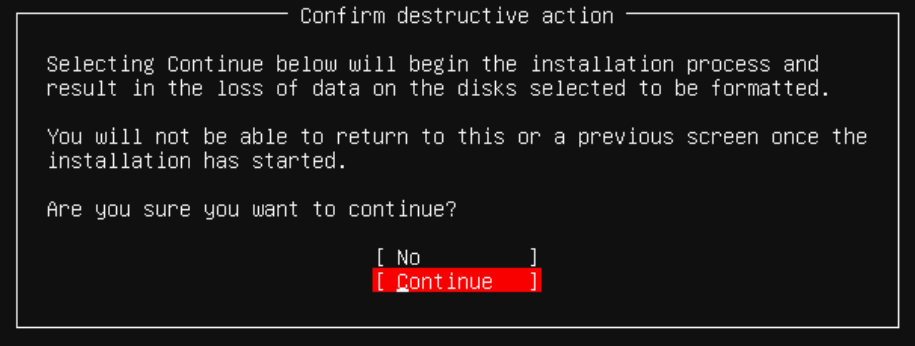
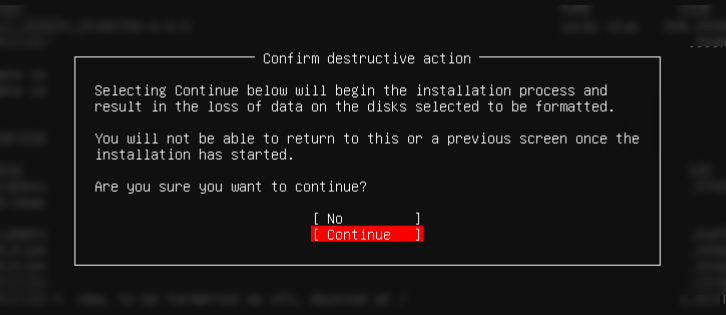
Update

Changed region(s): [[0.0, 0.0, 1.0, 0.9714], [0.0909, 0.6857, 0.9091, 0.8571], [0.9697, 0.1143, 1.0, 0.1714]]

diff --git a/Zeek 5.x on Ubuntu Install.md b/Zeek 5.x on Ubuntu Install.md
@@ -273,21 +273,36 @@ Participants can contact Dell directly for warranty & customer support for hardw
 
 ![image-20200506160918064](/images/image-userprofile.png)
 
-## 3.5 Intall OpenSSH
+## 3.5 Install OpenSSH
 
 >Install OpenSSH server.  This will allow you to administrate the server via SSH.  
 >Optionally, use certificate based authentication.
 >
 ![image-20200506160918064](/images/image-installopenssh.png)
 
+## 3.5 Featured Server Snaps
+
+>Do not select any Featured server Snaps
+>
+![image-20200506160918064](/images/image-featuredserversnaps.png)
+
 
 ## 3.5. Begin the installation
 
-1. Click `Begin Installation`.
+
+1.  Confirm the destructive operation warning to start installation
 
    > This is the last chance to modify options before they are written to disk.
 
-![image-20200506162722251](/images/image-20200506162722251.png)
+![image-20200506162722251](/images/image-preconfirminstalllaunch.png)
+
+2. The installation will start
+
+![image-20200506162722251](/images/image-installlaunch.png)
+
+3. Once the installation has completed, Click 'Reboot Now'
+
+![image-20200506162722251](/images/image-postinstallreboot.png)
 
 ## 3.6. Account Creation
 
